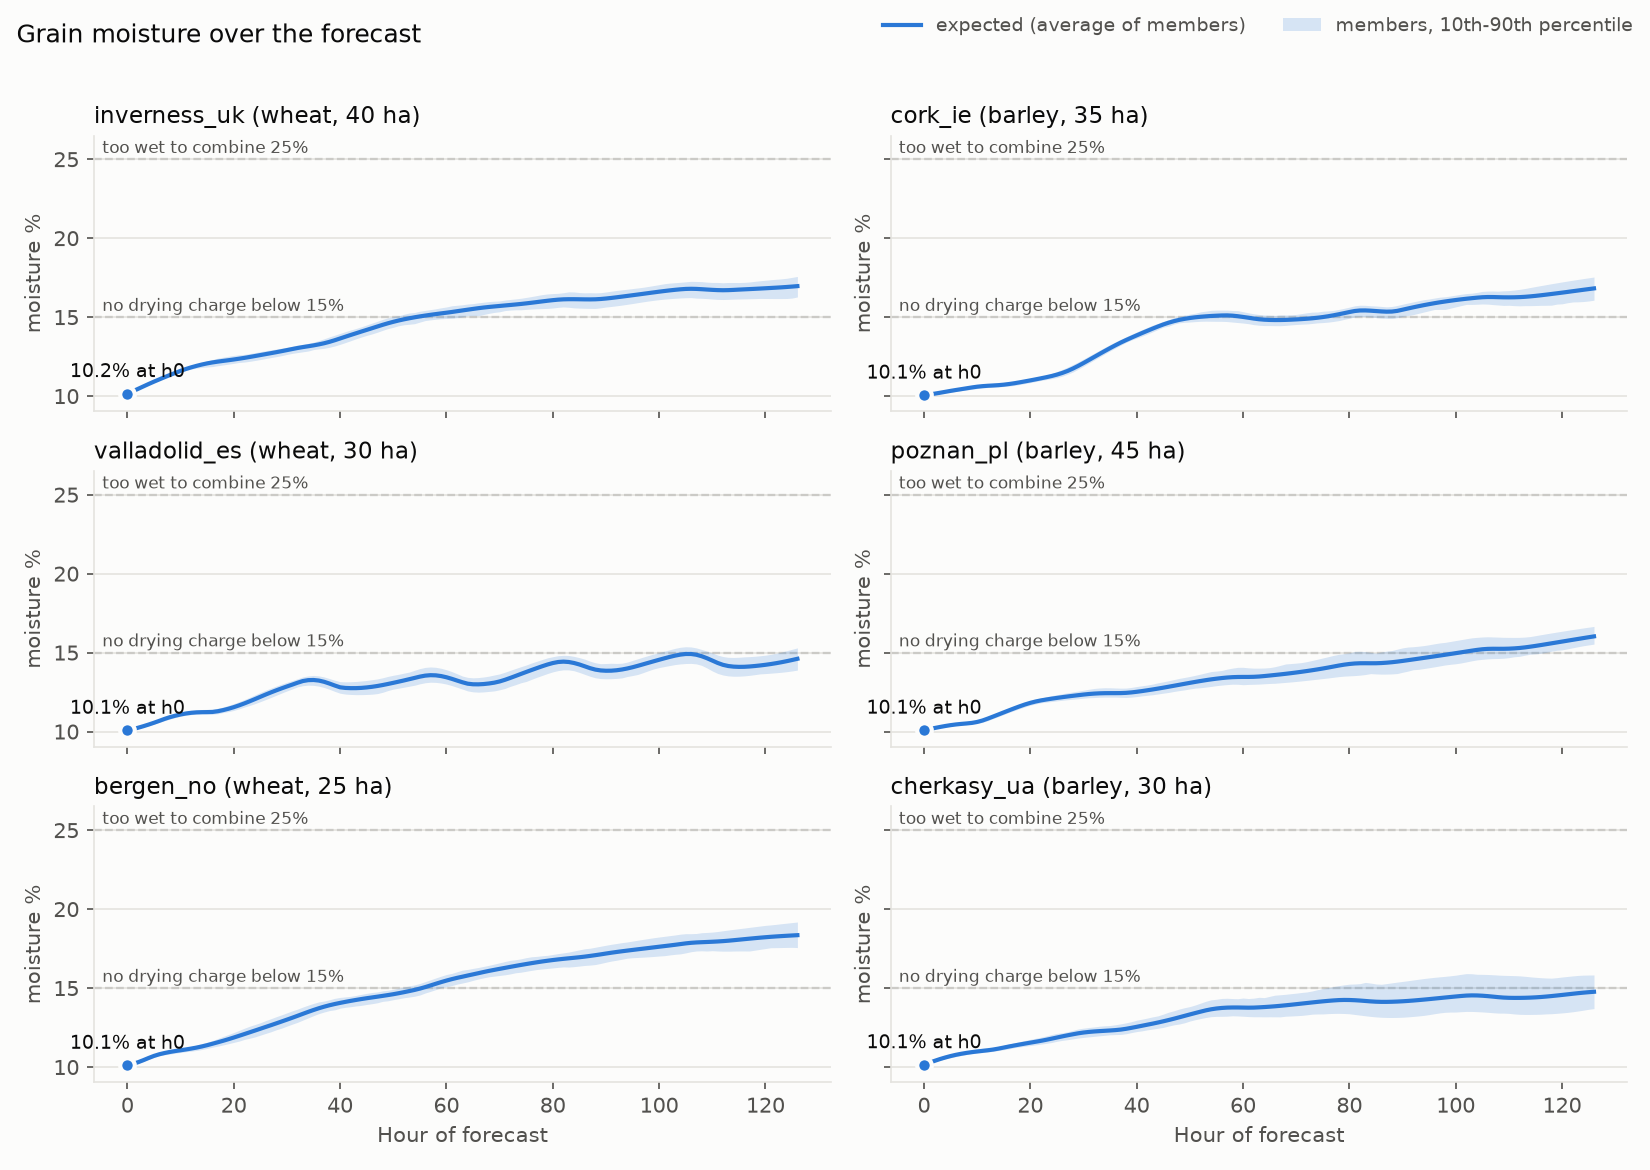
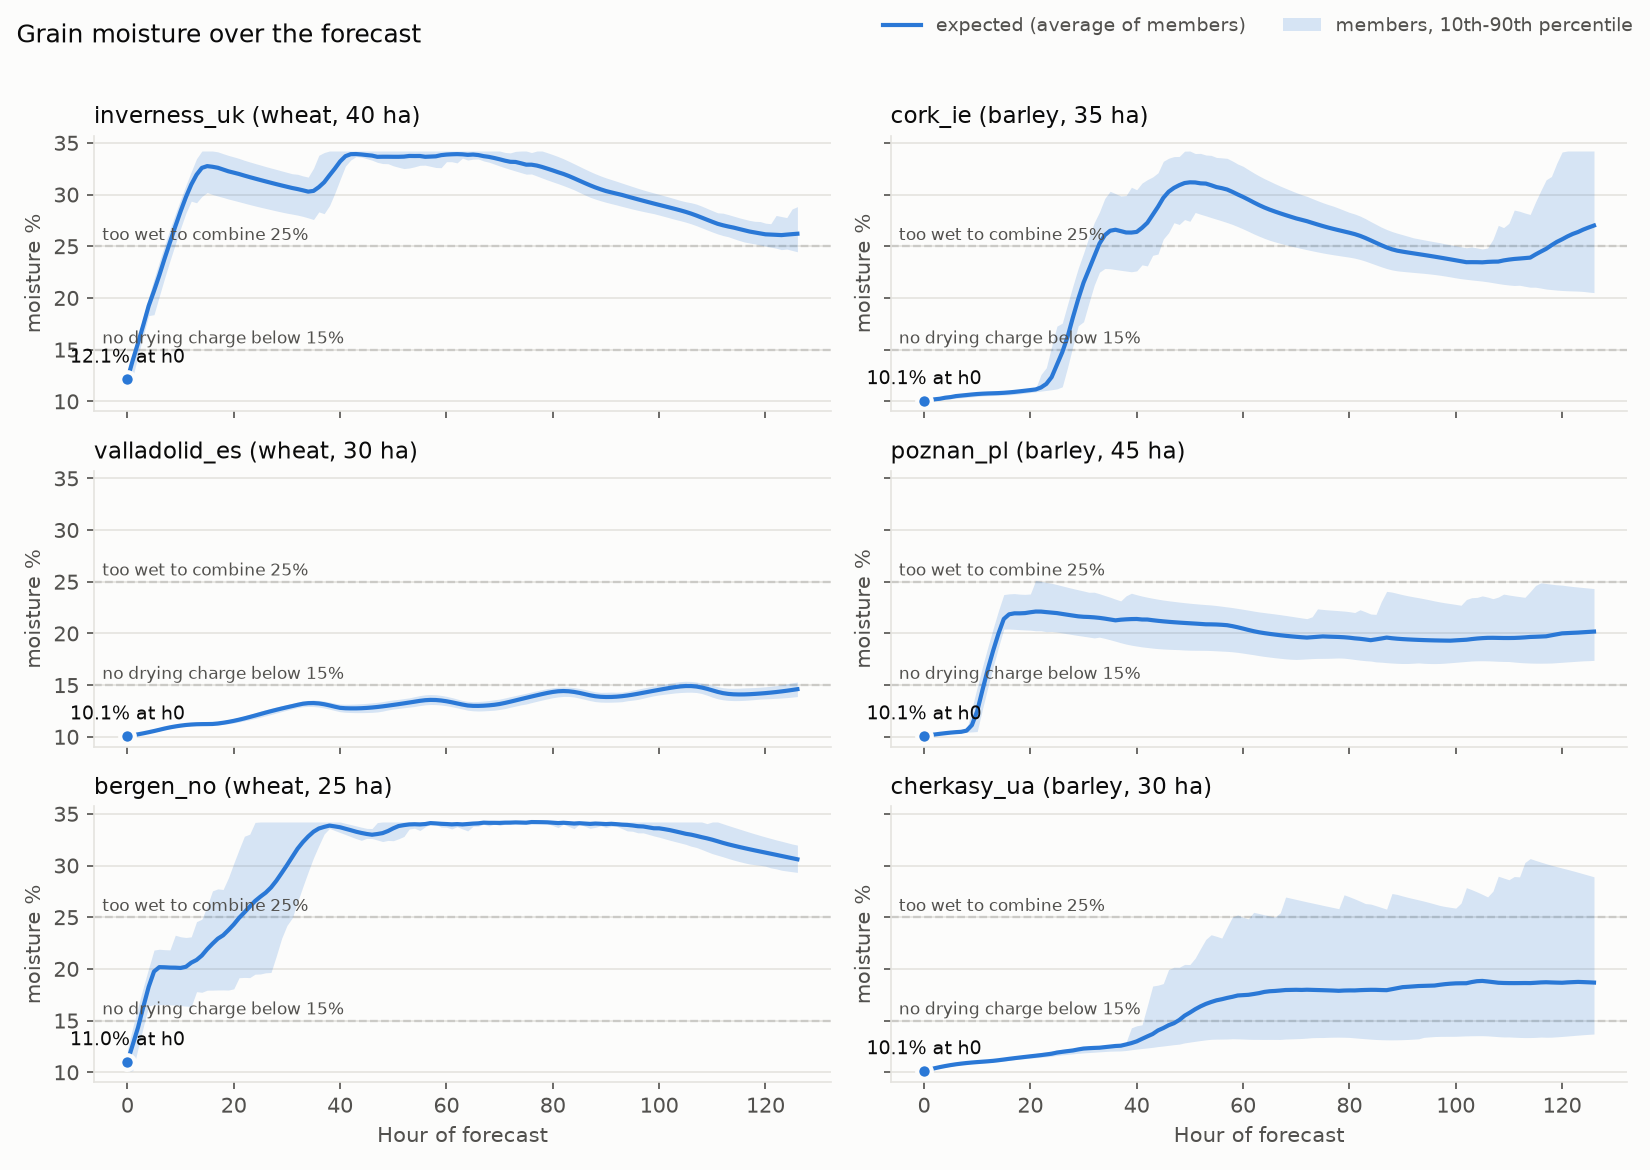
value: moisture-dependent tonnage, per-crop drying target/free level, loss 0.015 %/h, 2026 crop numbers

diff --git a/tests/test_pipeline.py b/tests/test_pipeline.py
@@ -13,6 +13,7 @@ from harvest.planners.common import follow_plan, send_idle_to_depot
 from harvest.planners.lagrangian import field_alone, machine_prices
 from harvest.simulate import run_season, run_with_forecasts
 from harvest.value import (
+    delivered_tonnes_per_ha,
     drying_cost_gbp_per_t,
     field_values,
     member_values,
@@ -24,6 +25,16 @@ ROOT = Path(__file__).parent.parent
 MOISTURE_CSV = ROOT / "outputs" / "moisture_forecast.csv"
 
 
+# Camgrain cereal drying terms (dry to 14%, free up to 15%) for the hand-made crops below
+CEREAL_DRYING = {"target_moisture_pct": 14.0, "free_drying_up_to_pct": 15.0}
+
+# rain_farm: hour 0 at 16%, where its yield is quoted; hour 1 at 15%, where the same dry matter
+# weighs 84/85 as much and the store keeps 1.25% of it
+RAIN_FARM_HOUR_0 = 93.5
+RAIN_FARM_HOUR_1 = 98.75 * 0.84 / 0.85  # £97.59/ha
+RAIN_FARM_BEST = RAIN_FARM_HOUR_0 + RAIN_FARM_HOUR_1  # £191.09
+
+
 def demo_params():
     return yaml.safe_load((ROOT / "params.yaml").read_text(encoding="utf-8"))
 
@@ -32,7 +43,8 @@ def tiny_farm():
     """Hand-made case where we know the answer.
 
     One machine starts at field 0. Four dry hours. Driving between fields takes 2 hours.
-    Field 0: 4 ha worth £50/ha. Field 1: 2 ha worth £80/ha. The machine cuts 1 ha per hour.
+    Field 0: 4 ha worth £50/ha. Field 1: 2 ha worth £80/ha (grain stays at 14%, where the 1 t/ha
+    yield is quoted, so it weighs exactly 1 t). The machine cuts 1 ha per hour.
     Staying on field 0 earns 4 x £50 = £200 (the best possible).
     Driving to field 1 earns 2 x £80 = £160 (2 hours lost to driving).
     """
@@ -46,8 +58,18 @@ def tiny_farm():
         drying_pct_per_hour=0,
         temp_start_moisture_pct=14,
         crops={
-            "cheap": {"price_gbp_per_t": 50, "yield_t_per_ha": 1},
-            "dear": {"price_gbp_per_t": 80, "yield_t_per_ha": 1},
+            "cheap": {
+                "price_gbp_per_t": 50,
+                "yield_t_per_ha": 1,
+                "yield_moisture_pct": 14,
+                **CEREAL_DRYING,
+            },
+            "dear": {
+                "price_gbp_per_t": 80,
+                "yield_t_per_ha": 1,
+                "yield_moisture_pct": 14,
+                **CEREAL_DRYING,
+            },
         },
         fields=[
             {"name": "f0", "crop": "cheap", "area_ha": 4},
@@ -67,11 +89,12 @@ def rain_farm():
     """Hand-made case where waiting for each field's best hour is a trap.
 
     One machine at the depot cuts 1 ha per hour; no driving time. Two 1 ha fields of the same
-    crop at £100/t, 1 t/ha. The grain dries from 16% to 15% by hour 1, then it rains in hour 2.
-    Value of each field: hour 0 £93.50/ha (£4 drying charge + 2.5% weight kept), hour 1 £98.75/ha
-    (1.25% weight kept), hour 2 nothing.
-    Best: one field now and the other in hour 1, £192.25. Both fields' best hour is hour 1, so a
-    planner that waits for it cuts only one field: £98.75.
+    crop at £100/t, 1 t/ha quoted at 16%. The grain dries from 16% to 15% by hour 1, then it rains
+    in hour 2. Value of each field: hour 0 £93.50/ha (1 t, less a £4 drying charge and 2.5% weight
+    kept), hour 1 £97.59/ha (84/85 t, as drier grain weighs less, less 1.25% weight kept), hour 2
+    nothing.
+    Best: one field now and the other in hour 1, £191.09. Both fields' best hour is hour 1, so a
+    planner that waits for it cuts only one field: £97.59.
     """
     params = demo_params()
     params.update(
@@ -82,7 +105,14 @@ def rain_farm():
         loss_pct_per_hour=0,
         drying_pct_per_hour=1,
         temp_start_moisture_pct=16,
-        crops={"grain": {"price_gbp_per_t": 100, "yield_t_per_ha": 1}},
+        crops={
+            "grain": {
+                "price_gbp_per_t": 100,
+                "yield_t_per_ha": 1,
+                "yield_moisture_pct": 16,
+                **CEREAL_DRYING,
+            }
+        },
         fields=[
             {"name": "f0", "crop": "grain", "area_ha": 1},
             {"name": "f1", "crop": "grain", "area_ha": 1},
@@ -162,7 +192,10 @@ def test_value_has_one_number_per_field_and_hour():
 def test_drying_cost_follows_camgrain_bands():
     params = demo_params()
     params["fields"] = [{"name": "f0", "crop": "free"}, {"name": "f1", "crop": "dear"}]
-    params["crops"] = {"free": {"price_gbp_per_t": 0}, "dear": {"price_gbp_per_t": 200}}
+    params["crops"] = {
+        "free": {"price_gbp_per_t": 0, **CEREAL_DRYING},
+        "dear": {"price_gbp_per_t": 200, **CEREAL_DRYING},
+    }
     moisture = np.array([[[14.0, 15.0, 15.1, 15.5, 15.6, 16.0]] * 2])  # [member, field, hour]
     cost = drying_cost_gbp_per_t(moisture, params)
     assert cost[0, 0] == pytest.approx([0, 0, 2, 2, 4, 4])  # price 0 leaves only the charge
@@ -187,6 +220,37 @@ def test_moisture_csv_gives_each_field_its_own_crop(tmp_path):
     assert drying_cost_gbp_per_t(moisture, params).shape == (2, 2, 3)
 
 
+def test_drier_grain_weighs_less_and_wetter_grain_more():
+    params = demo_params()
+    params["fields"] = [{"name": "f0", "crop": "grain"}]
+    params["crops"] = {"grain": {"yield_t_per_ha": 10, "yield_moisture_pct": 15, **CEREAL_DRYING}}
+    moisture = np.array([[[10.0, 15.0, 20.0]]])  # [member, field, hour]
+    # 10 t at 15% is 8.5 t of dry matter, whatever the moisture
+    assert delivered_tonnes_per_ha(moisture, params)[0, 0] == pytest.approx(
+        [8.5 / 0.90, 10, 8.5 / 0.80]
+    )
+
+
+def test_oilseeds_are_dried_to_9_pct_and_cereals_to_14():
+    params = demo_params()
+    params["fields"] = [{"name": "f0", "crop": "cereal"}, {"name": "f1", "crop": "oilseed"}]
+    params["crops"] = {
+        "cereal": {"price_gbp_per_t": 100, **CEREAL_DRYING},
+        "oilseed": {
+            "price_gbp_per_t": 100,
+            "target_moisture_pct": 9.0,
+            "free_drying_up_to_pct": 9.0,
+        },
+    }
+    moisture = np.array([[[9.0, 10.0, 15.0], [9.0, 10.0, 15.0]]])  # [member, field, hour]
+    cost = drying_cost_gbp_per_t(moisture, params)
+    assert cost[0, 0] == pytest.approx(
+        [0, 0, 1.25]
+    )  # cereal: free up to 15%, weight kept above 14%
+    # oilseed: free at 9%; at 10%, 2 bands (£4) + 1 point x 1.25% of £100 kept
+    assert cost[0, 1, :2] == pytest.approx([0, 4 + 1.25])
+
+
 def test_value_uses_moisture_forecast_shifted_to_the_reading():
     params, weather = tiny_farm()
     params["crops"]["dear"]["price_gbp_per_t"] = 200
@@ -195,7 +259,8 @@ def test_value_uses_moisture_forecast_shifted_to_the_reading():
     assert start_moisture(weather, params) == pytest.approx([18, 18])
     # a reading of 16% keeps the same drying, just 2 points lower: 16, 15, 14, 13
     value = field_values(weather, np.array([16.0, 16.0]), params)
-    assert value[1, 3] == pytest.approx(200)  # 13% is dry enough to cost nothing
+    # 13%: no drying charge, but the 1 t quoted at 14% weighs only 0.86/0.87 t this dry
+    assert value[1, 3] == pytest.approx(200 * 0.86 / 0.87)
     assert value[1, 0] < value[1, 3]  # wetter grain costs more to dry
 
 
@@ -316,13 +381,17 @@ def test_prices_rise_on_the_hour_everyone_wants():
     value = field_values(weather, start_moisture(weather, params), params)
     price, bound = machine_prices(value, np.array([1.0, 1.0]), params)
     # hour 1 must cost about £5.25/ha more than hour 0, so one field takes hour 0 instead
-    assert price[1] - price[0] == pytest.approx(98.75 - 93.5, abs=0.5)
-    assert bound == pytest.approx(192.25, abs=0.5)  # the best answer: the bound is tight here
+    assert price[1] - price[0] == pytest.approx(RAIN_FARM_HOUR_1 - RAIN_FARM_HOUR_0, abs=0.5)
+    assert bound == pytest.approx(
+        RAIN_FARM_BEST, abs=0.5
+    )  # the best answer: the bound is tight here
 
 
 def test_lagrangian_cuts_before_the_rain():
     params, weather = rain_farm()
-    assert run_season(weather, params, plan_lagrangian)["total_gbp"] == pytest.approx(192.25)
+    assert run_season(weather, params, plan_lagrangian)["total_gbp"] == pytest.approx(
+        RAIN_FARM_BEST
+    )
 
 
 def test_lagrangian_finds_the_best_answer_on_the_tiny_farm():
@@ -337,7 +406,7 @@ def test_mpc_finds_the_best_answer_on_the_tiny_farm():
 
 def test_mpc_cuts_before_the_rain():
     params, weather = rain_farm()
-    assert run_season(weather, params, plan_mpc)["total_gbp"] == pytest.approx(192.25)
+    assert run_season(weather, params, plan_mpc)["total_gbp"] == pytest.approx(RAIN_FARM_BEST)
 
 
 def test_mpc_leaves_a_field_mid_job_and_comes_back():

diff --git a/harvest/value.py b/harvest/value.py
@@ -72,23 +72,39 @@ def crop_numbers(params, key):
     return np.array([crop[key] for crop in crops], dtype=float)[None, :, None]
 
 
+def delivered_tonnes_per_ha(moisture, params):
+    """Tonnes per ha as weighed at this grain moisture (%).
+
+    yield_t_per_ha is quoted at yield_moisture_pct. Dry matter is fixed; water changes the weight.
+    UK terms pay no bonus for grain drier than that (Openfield 2025-26 ex-farm terms; Camgrain
+    charges), so the weight a dry crop has lost is lost money.
+    moisture: [member, field, hour] -> returns [member, field, hour]
+    """
+    yield_t = crop_numbers(params, "yield_t_per_ha")
+    dry_matter = yield_t * (1 - crop_numbers(params, "yield_moisture_pct") / 100)
+    return dry_matter / (1 - moisture / 100)
+
+
 def drying_cost_gbp_per_t(moisture, params):
     """£ per tonne to have the store dry the grain, using Camgrain's published charges.
 
-    Source: https://www.camgrain.co.uk/charges-for-2025 (cereals, harvest 2026). The handling
-    charge and throughput loss are paid whatever the moisture, so they're left out.
+    Source: https://www.camgrain.co.uk/charges-for-2025 (harvest 2026). The drying target and the
+    free level are per crop (target_moisture_pct, free_drying_up_to_pct): cereals dry to 14% and are
+    free up to 15%, oilseeds dry to 9% and are free up to 9%. The handling charge and throughput
+    loss are paid whatever the moisture, so they're left out.
 
     moisture: [member, field, hour]  grain moisture, % (from predict_moisture)
     returns:  [member, field, hour]  drying charge + value of the weight deducted, £/t
     """
-    # a flat charge per 0.5% band above 15%: 15.1-15.5% -> £2, 15.6-16.0% -> £4, ...
+    # a flat charge per 0.5% band above the crop's free level. Cereals (free up to 15%):
+    # 15.1-15.5% -> £2, 15.6-16.0% -> £4, ...; oilseeds (free up to 9%): 9.1-9.5% -> £2, ...
     # (rounding first so 15.5% lands in the first band, not the second)
-    excess_pct = np.round(moisture, 1) - params["free_drying_up_to_pct"]
+    excess_pct = np.round(moisture, 1) - crop_numbers(params, "free_drying_up_to_pct")
     bands = np.maximum(0, np.ceil(np.round(excess_pct / params["drying_band_pct"], 6)))
     charge_gbp_per_t = params["drying_charge_gbp_per_band"] * bands
 
     # the store also keeps some weight for every point of moisture it removes
-    removed_pct = np.maximum(0, moisture - params["target_moisture_pct"])
+    removed_pct = np.maximum(0, moisture - crop_numbers(params, "target_moisture_pct"))
     weight_loss_pct = params["weight_loss_pct_per_pct"] * removed_pct
     price = crop_numbers(params, "price_gbp_per_t")
     return charge_gbp_per_t + price * weight_loss_pct / 100
@@ -113,9 +129,9 @@ def member_values(weather, start_moisture, params, first_hour=0):
     moisture = predict_moisture(start_moisture, weather, params)  # [member, field, hour]
 
     price = crop_numbers(params, "price_gbp_per_t")
-    tonnes = crop_numbers(params, "yield_t_per_ha")
+    tonnes = delivered_tonnes_per_ha(moisture, params)  # [member, field, hour]
 
-    # grain sold, minus what the store charges to dry it
+    # grain sold, at the weight it has at this moisture, minus what the store charges to dry it
     gbp_per_ha = tonnes * (price - drying_cost_gbp_per_t(moisture, params))
 
     # the longer the crop stands, the more of it is lost

diff --git a/scripts/plot_field_moisture.py b/scripts/plot_field_moisture.py
@@ -1,7 +1,8 @@
 """Grain moisture of each field over the forecast, for the crop growing on it.
 
 The line is the average over forecast members, the band how much they disagree. Dashed lines:
-too wet to combine above max_harvest_moisture_pct, no drying charge below free_drying_up_to_pct.
+too wet to combine above max_harvest_moisture_pct, no drying charge below the field's crop's
+free_drying_up_to_pct.
 Moisture comes from outputs/moisture_forecast.csv; make it first with
 `uv run python scripts/moisture_forecast.py`.
 Run:  uv run python scripts/plot_field_moisture.py
@@ -38,11 +39,15 @@ def main():
         lambda pct, hour: f"{pct:.1f}% at h{hour}",
     )
 
-    limits = [
-        (params["max_harvest_moisture_pct"], "too wet to combine"),
-        (params["free_drying_up_to_pct"], "no drying charge below"),
+    # the free drying level is per crop (cereals 15%, oilseeds 9%), so each field gets its own
+    free_pct = [
+        params["crops"][field["crop"]]["free_drying_up_to_pct"] for field in params["fields"]
     ]
-    for ax in axes:
+    for ax, free in zip(axes, free_pct):
+        limits = [
+            (params["max_harvest_moisture_pct"], "too wet to combine"),
+            (free, "no drying charge below"),
+        ]
         for pct, label in limits:
             ax.axhline(pct, color=MUTED, linestyle="--", linewidth=1, zorder=0)
             # at the left edge: every field starts at the same moisture, well clear of the limits
@@ -57,7 +62,7 @@ def main():
                 color=MUTED,
             )
     # keep both limits in view, with room above for the lowest-hour labels
-    low = min(moisture.min(), params["free_drying_up_to_pct"])
+    low = min(moisture.min(), min(free_pct))
     high = max(moisture.max(), params["max_harvest_moisture_pct"])
     axes[0].set_ylim(low - 1, high + 1.5)
 

diff --git a/harvest/README.md b/harvest/README.md
@@ -58,6 +58,17 @@ Without either, a simple model (dries with low humidity, wets with rain).
 And **`member_values(...)`**: same inputs, out `[M, F, H]`, the value in each member before
 averaging. `field_values` is its average over members.
 
+How a value is worked out, per member, field and hour:
+`delivered_tonnes_per_ha × (price − drying_cost_gbp_per_t)`, shrunk by `loss_pct_per_hour` for
+every hour the crop has stood, and 0 in rain or when too wet to combine.
+- **`delivered_tonnes_per_ha(moisture, params)`**: `[M, F, H]` → `[M, F, H]`. `yield_t_per_ha` is
+  quoted at `yield_moisture_pct`; the dry matter is fixed, so drier grain weighs less and wetter
+  grain more. UK terms pay no bonus for dry grain, so the lost weight is lost money.
+- **`drying_cost_gbp_per_t(moisture, params)`**: Camgrain's charge per 0.5% band above the crop's
+  `free_drying_up_to_pct`, plus the weight the store keeps for drying down to its
+  `target_moisture_pct`. Both are per crop: cereals 15% and 14%, oilseed rape 9% and 9%.
+- Value peaks at 14-14.5% for cereals and 9% for oilseed rape, and falls on both sides.
+
 And **`start_moisture(weather, params)`**: in `[M, F, H]`, out `[F]` grain moisture (%) of each
 field at hour 0: hour 0 of `weather["moisture_pct"]` averaged over members, or the placeholder
 `temp_start_moisture_pct` for every field when there is no moisture forecast.

diff --git a/tests/README.md b/tests/README.md
@@ -10,6 +10,8 @@ uv run pytest
 
 - the forecast CSV loads into `[member, field, hour]` arrays;
 - the value function gives one number (≥ 0) per field and hour;
+- drier grain weighs less and wetter grain more (fixed dry matter), and oilseeds are dried to 9%
+  (free at 9%) while cereals are dried to 14% (free up to 15%);
 - the simulator, on a tiny hand-made farm:
   - staying on field 0 earns £200, the best possible;
   - driving to field 1 earns £160, because 2 hours are lost to driving;
